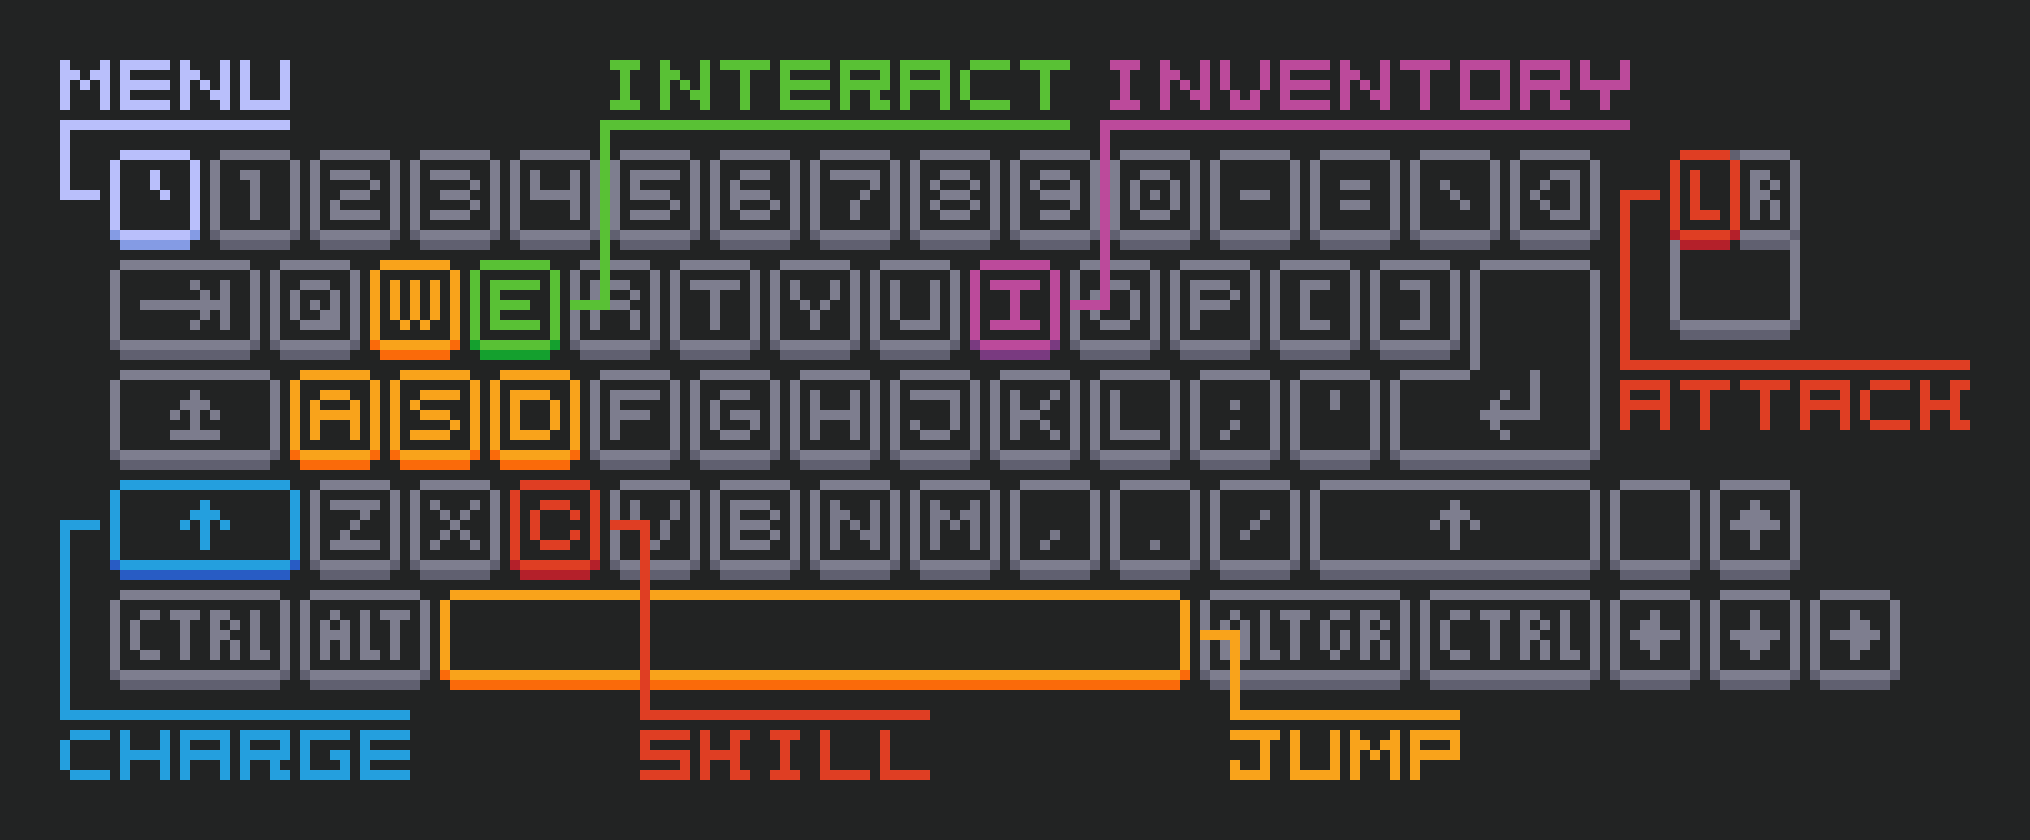
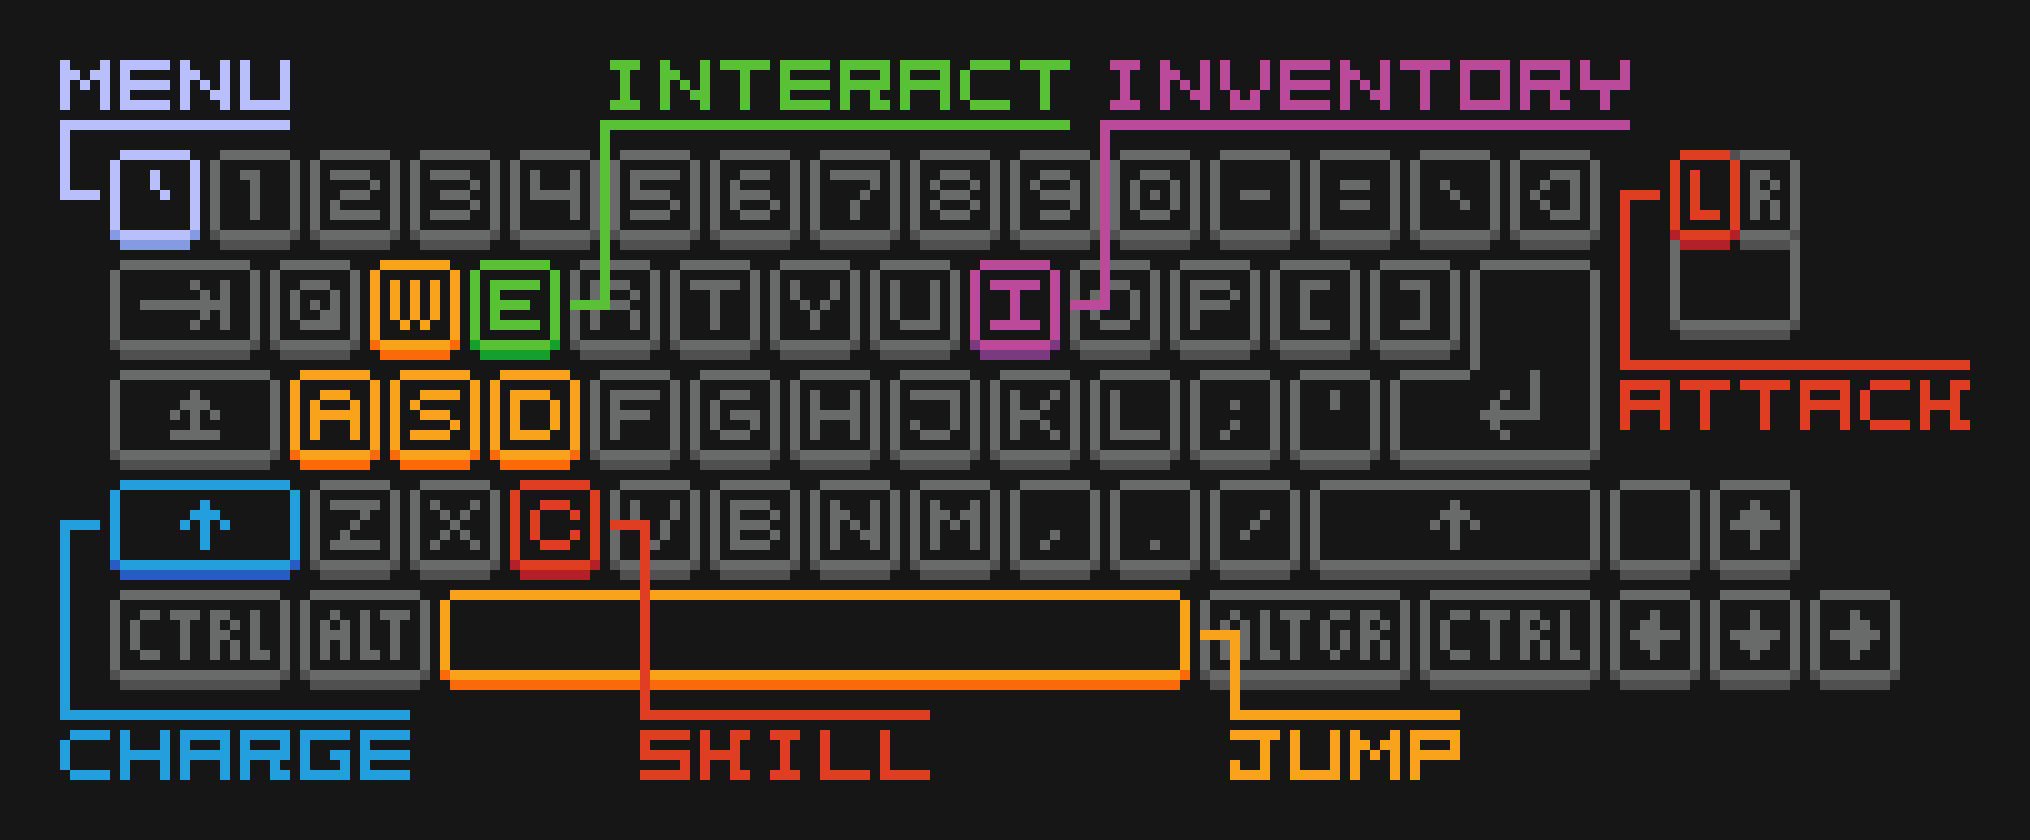
docs(): Added screenshots. Adjusted many images.
docs(): Added color palette documentation.

Changed region(s): [[0.031, 0.1548, 0.9621, 0.8357], [0.031, 0.5571, 0.2483, 0.8357]]

diff --git a/README.md b/README.md
@@ -7,9 +7,9 @@
 
 A classic 2D metroidvania with trichromatic artstyle.  You, a player, is a wandering spirit exploring a dark limbo-like realm. Fight your way through the enemies, discover secrets scattered generously through every map, gather power and defeat the ultimate Big Baddie! The game is extremely lightweight and should have FPS in hundreds/thousands on most machines.
 
-<img src ="docs/images/promo_enemies_large.png">
-<img src ="docs/images/promo_items_large.png">
-<img src ="docs/images/promo_boss_large.png">
+<img src ="docs/images/promo_enemies.png">
+<img src ="docs/images/promo_items.png">
+<img src ="docs/images/promo_boss.png">
 
 ## Gameplay
 
@@ -34,7 +34,14 @@ A classic 2D metroidvania with trichromatic artstyle.  You, a player, is a wande
 
 ## Screenshots
 
-TODO:
+<img src ="docs/images/screenshot_main_menu.png">
+<img src ="docs/images/screenshot_hint.png">
+<img src ="docs/images/screenshot_treasury.png">
+<img src ="docs/images/screenshot_combat_1.png">
+<img src ="docs/images/screenshot_portal.png">
+<img src ="docs/images/screenshot_tower.png">
+<img src ="docs/images/screenshot_controls.png">
+<img src ="docs/images/screenshot_combat_2.png">
 
 ## Executable
 
